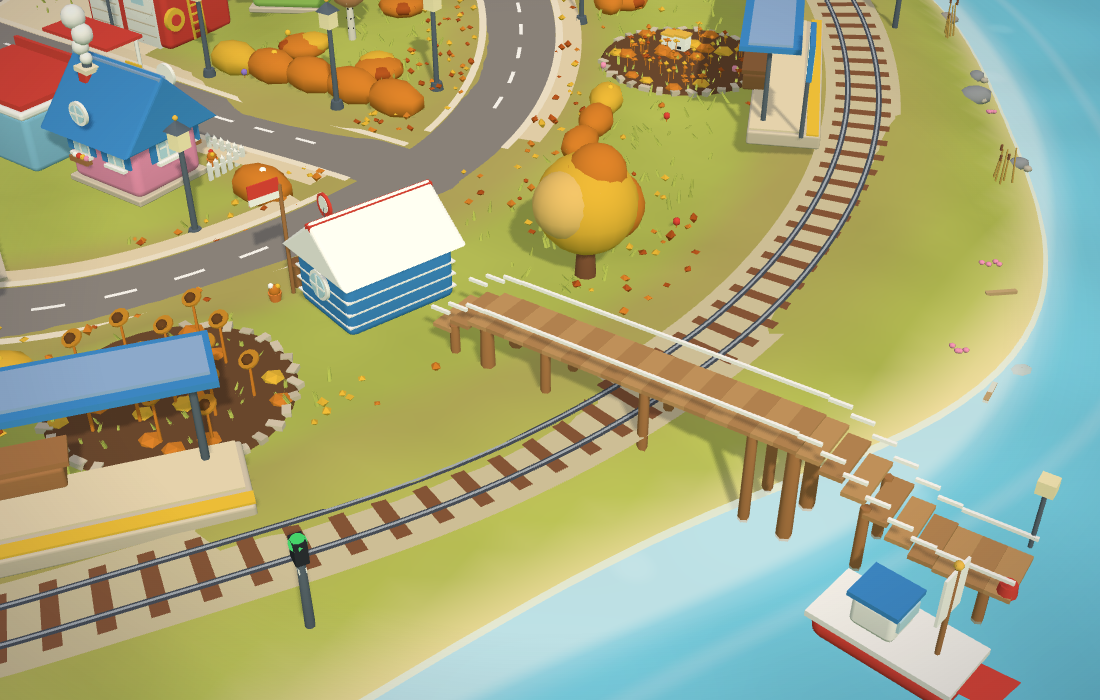
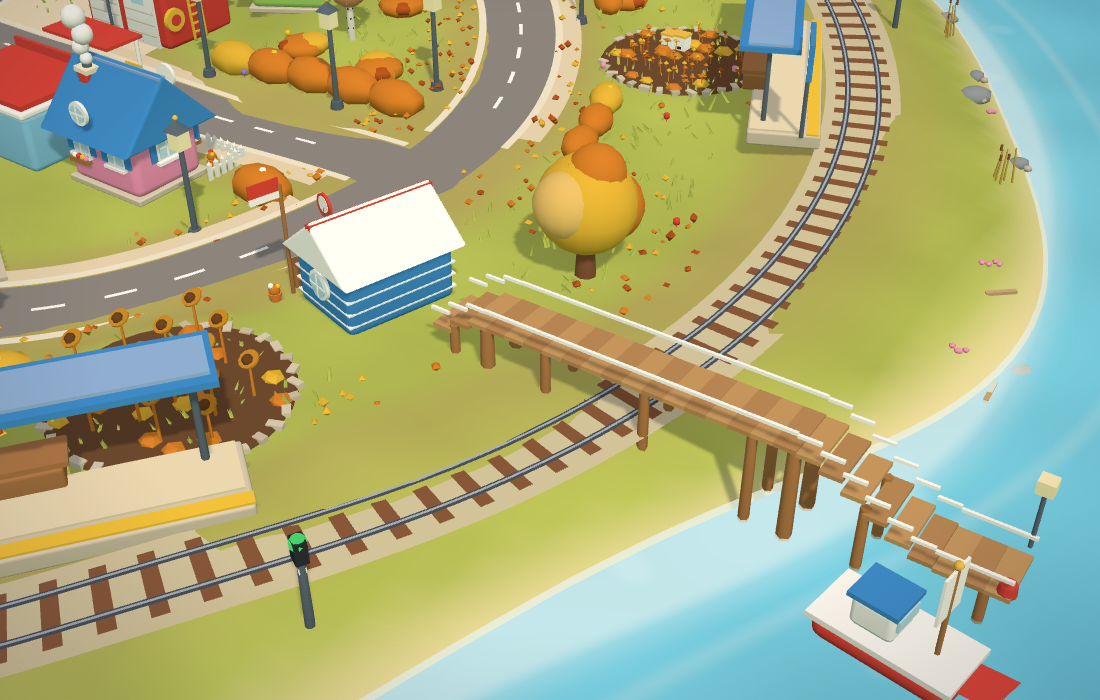
New Toy Town: natural colour (brighter dawn, gentler tints, fog follows the camera) (#236)
* docs(toy-town): Claude DONE — miniature-photo look pass

Claude-Session: https://claude.ai/code/session_016DDzLFPb4BuxMAThu2pji2

* docs(toy-town): Claude START — news minimise, cinema, night life, tap chat

Claude-Session: https://claude.ai/code/session_016DDzLFPb4BuxMAThu2pji2

* Toy Town: minimisable news card, Picture-of-the-Day cinema, fireflies, shooting stars, tap-a-resident chat

- News card folds into a pill with a −/+ button (phones start folded; remembered per device).
- Open-air cinema in the back-left corner shows Wikipedia's Picture of the Day, credited; deckchair viewers and a projector beam after dusk.
- Fireflies over the lawns and occasional shooting stars at night; softer dusk bloom so the plaza does not glare.
- Tap a resident in 3D for a chat bubble in the town's fictional voice (never quoting sourced headlines).
- Cache keys: sim v28, 3D v43, lens v3, embed v56. New tests/toy-town-extras.test.cjs.

Claude-Session: https://claude.ai/code/session_016DDzLFPb4BuxMAThu2pji2

* docs(toy-town): Claude DONE — news minimise, cinema, night life, tap chat

Claude-Session: https://claude.ai/code/session_016DDzLFPb4BuxMAThu2pji2

* docs(toy-town): Claude START — on-this-day visitor and paper round

Claude-Session: https://claude.ai/code/session_016DDzLFPb4BuxMAThu2pji2

* Toy Town: on-this-day time visitor and dawn paper round in 3D
[…]

diff --git a/toy-town-new.html b/toy-town-new.html
@@ -80,37 +80,37 @@ html.ui-off #set,html.ui-off #panel,html.ui-off #paperBtn,html.ui-off #photoBtn,
 #dbg{position:fixed;left:calc(8px + env(safe-area-inset-left,0px));bottom:calc(8px + env(safe-area-inset-bottom,0px));padding:3px 8px;border-radius:8px;background:rgba(0,0,0,.6);color:#fff;font:600 11px/1.3 ui-monospace,Menlo,Consolas,monospace;pointer-events:none;z-index:9}
 html.ui-off #stack,html.ui-off #jobs,html.ui-off #toast,html.ui-off #snd,html.ui-off #chip,html.ui-off #hint,html.ui-off #story,html.ui-off #card{display:none}
 </style>
-<script type="importmap" data-stamp="1017721c51">
+<script type="importmap" data-stamp="7425359b0d">
 {"imports":{
   "three":"https://cdn.jsdelivr.net/npm/three@0.187.0/build/three.module.js",
   "three/addons/":"https://cdn.jsdelivr.net/npm/three@0.187.0/examples/jsm/",
-  "./assets/town2/build.mjs":"./assets/town2/build.mjs?v=1017721c51",
-  "./assets/town2/curve.mjs":"./assets/town2/curve.mjs?v=1017721c51",
-  "./assets/town2/def.mjs":"./assets/town2/def.mjs?v=1017721c51",
-  "./assets/town2/events.mjs":"./assets/town2/events.mjs?v=1017721c51",
-  "./assets/town2/garden.mjs":"./assets/town2/garden.mjs?v=1017721c51",
-  "./assets/town2/graph.mjs":"./assets/town2/graph.mjs?v=1017721c51",
-  "./assets/town2/inspect.mjs":"./assets/town2/inspect.mjs?v=1017721c51",
-  "./assets/town2/lives.mjs":"./assets/town2/lives.mjs?v=1017721c51",
-  "./assets/town2/memory.mjs":"./assets/town2/memory.mjs?v=1017721c51",
-  "./assets/town2/mystery.mjs":"./assets/town2/mystery.mjs?v=1017721c51",
-  "./assets/town2/nature.mjs":"./assets/town2/nature.mjs?v=1017721c51",
-  "./assets/town2/needs.mjs":"./assets/town2/needs.mjs?v=1017721c51",
-  "./assets/town2/paper.mjs":"./assets/town2/paper.mjs?v=1017721c51",
-  "./assets/town2/quality.mjs":"./assets/town2/quality.mjs?v=1017721c51",
-  "./assets/town2/saga.mjs":"./assets/town2/saga.mjs?v=1017721c51",
-  "./assets/town2/settings.mjs":"./assets/town2/settings.mjs?v=1017721c51",
-  "./assets/town2/sim.mjs":"./assets/town2/sim.mjs?v=1017721c51",
-  "./assets/town2/sky.mjs":"./assets/town2/sky.mjs?v=1017721c51",
-  "./assets/town2/smoke.mjs":"./assets/town2/smoke.mjs?v=1017721c51",
-  "./assets/town2/sound.mjs":"./assets/town2/sound.mjs?v=1017721c51",
-  "./assets/town2/stories.mjs":"./assets/town2/stories.mjs?v=1017721c51",
-  "./assets/town2/track.mjs":"./assets/town2/track.mjs?v=1017721c51",
-  "./assets/town2/vote.mjs":"./assets/town2/vote.mjs?v=1017721c51",
-  "./assets/town2/weather.mjs":"./assets/town2/weather.mjs?v=1017721c51",
-  "./assets/town2/wild3d.mjs":"./assets/town2/wild3d.mjs?v=1017721c51",
-  "./assets/town2/wildlife.mjs":"./assets/town2/wildlife.mjs?v=1017721c51",
-  "./assets/town2/wildscene.mjs":"./assets/town2/wildscene.mjs?v=1017721c51"
+  "./assets/town2/build.mjs":"./assets/town2/build.mjs?v=7425359b0d",
+  "./assets/town2/curve.mjs":"./assets/town2/curve.mjs?v=7425359b0d",
+  "./assets/town2/def.mjs":"./assets/town2/def.mjs?v=7425359b0d",
+  "./assets/town2/events.mjs":"./assets/town2/events.mjs?v=7425359b0d",
+  "./assets/town2/garden.mjs":"./assets/town2/garden.mjs?v=7425359b0d",
+  "./assets/town2/graph.mjs":"./assets/town2/graph.mjs?v=7425359b0d",
+  "./assets/town2/inspect.mjs":"./assets/town2/inspect.mjs?v=7425359b0d",
+  "./assets/town2/lives.mjs":"./assets/town2/lives.mjs?v=7425359b0d",
+  "./assets/town2/memory.mjs":"./assets/town2/memory.mjs?v=7425359b0d",
+  "./assets/town2/mystery.mjs":"./assets/town2/mystery.mjs?v=7425359b0d",
+  "./assets/town2/nature.mjs":"./assets/town2/nature.mjs?v=7425359b0d",
+  "./assets/town2/needs.mjs":"./assets/town2/needs.mjs?v=7425359b0d",
+  "./assets/town2/paper.mjs":"./assets/town2/paper.mjs?v=7425359b0d",
+  "./assets/town2/quality.mjs":"./assets/town2/quality.mjs?v=7425359b0d",
+  "./assets/town2/saga.mjs":"./assets/town2/saga.mjs?v=7425359b0d",
+  "./assets/town2/settings.mjs":"./assets/town2/settings.mjs?v=7425359b0d",
+  "./assets/town2/sim.mjs":"./assets/town2/sim.mjs?v=7425359b0d",
+  "./assets/town2/sky.mjs":"./assets/town2/sky.mjs?v=7425359b0d",
+  "./assets/town2/smoke.mjs":"./assets/town2/smoke.mjs?v=7425359b0d",
+  "./assets/town2/sound.mjs":"./assets/town2/sound.mjs?v=7425359b0d",
+  "./assets/town2/stories.mjs":"./assets/town2/stories.mjs?v=7425359b0d",
+  "./assets/town2/track.mjs":"./assets/town2/track.mjs?v=7425359b0d",
+  "./assets/town2/vote.mjs":"./assets/town2/vote.mjs?v=7425359b0d",
+  "./assets/town2/weather.mjs":"./assets/town2/weather.mjs?v=7425359b0d",
+  "./assets/town2/wild3d.mjs":"./assets/town2/wild3d.mjs?v=7425359b0d",
+  "./assets/town2/wildlife.mjs":"./assets/town2/wildlife.mjs?v=7425359b0d",
+  "./assets/town2/wildscene.mjs":"./assets/town2/wildscene.mjs?v=7425359b0d"
 }}
 </script>
 </head>
@@ -132,7 +132,7 @@ html.ui-off #stack,html.ui-off #jobs,html.ui-off #toast,html.ui-off #snd,html.ui
 <div id="fail"><div>The new town could not start.<br><a href="toy-town.html">Open the current town</a>, or try a hard refresh (Ctrl+F5).<br><small id="why"></small><br><small>If it mentions WebGL, turn on hardware acceleration in the browser's settings (in Edge: edge://settings/system).</small></div></div>
 <script>if(/[?&]clean=1\b/.test(location.search))document.documentElement.classList.add('ui-off');</script>
 <script type="module">
-  import('./assets/town2/main.mjs?v=1017721c51').catch(e => { console.error(e); document.getElementById('why').textContent = (e && (e.name + ': ' + e.message)) || String(e); document.getElementById('fail').style.display = 'flex'; });
+  import('./assets/town2/main.mjs?v=7425359b0d').catch(e => { console.error(e); document.getElementById('why').textContent = (e && (e.name + ': ' + e.message)) || String(e); document.getElementById('fail').style.display = 'flex'; });
 </script>
 </body>
 </html>

diff --git a/TOY_TOWN_COLLAB.md b/TOY_TOWN_COLLAB.md
@@ -1267,3 +1267,9 @@ A `START` does not prohibit parallel edits. Avoid stepping on each other's uncom
 - **Tests**: logic (plots clear and levelled, free ground, pets, wander, dog follow, sea poses and the islet clearance, dwarf outings and path, sightings reach the sim, saga and the counters); browser (hens in the yard, dogs near owners, a dolphin leaps at a known moment, dwarfs and cave glow at dusk and none by day, tapping the rooster names him; screenshots `new-town-hens|gardens|dwarf-rock|dolphins`). Soak 20 days x 3 seeds passes. Draw calls at the default view went from 55 to 84 (budget now 100; pets and hens are hidden on the low tier, static nature casts no shadows) and triangles from 508k to 551k.
 - **Side effects**: new stories shift the random sequence again: the Monday school check now pools two towns, the fishing economy check runs five days instead of three; stories that pull Finn, Salt or Gill off their work (to the hut) cut the catch from 27 fish in five days to 3, so the new ones avoid them (an existing weakness: a story that takes a fisherman off the pier stops the fishing).
 - **Not verified**: a real phone and Edge; the look of the animals at the default zoom (dogs, cats and hens are drawn 1.25 to 1.6 times life size so they read); whether whales are ever noticed (they swim far out); balance of how often the dwarfs appear (about half the evenings).
+
+### 2026-11-11 · Claude · DONE (new storybook town, follow-up 16: natural colour)
+- **Request (owner, phone screenshot)**: the colour was dull and too filtered; keep it natural and matching the weather.
+- **Cause**: every visit starts at 06:00, and the dawn palette was dim (sun almost level with the ground, a long grey-pink stretch before full day, strong seasonal tints). Fog also began at a fixed distance, which on a tall phone screen (camera 90 units out) washed out the whole island.
+- **Fix**: dawn is brighter and shorter (full daylight by about 06:30, so the start of a visit looks like morning), the sun never drops below a fair height, autumn, winter and spring tints are gentler, and the fog now starts beyond the island however far the camera is. Weather (rain, cloud) still greys the sky as before.
+- **Tests**: logic suite and browser suite pass. **Not verified**: a real phone; whether the dusk and night palettes want the same treatment (left as they were).
